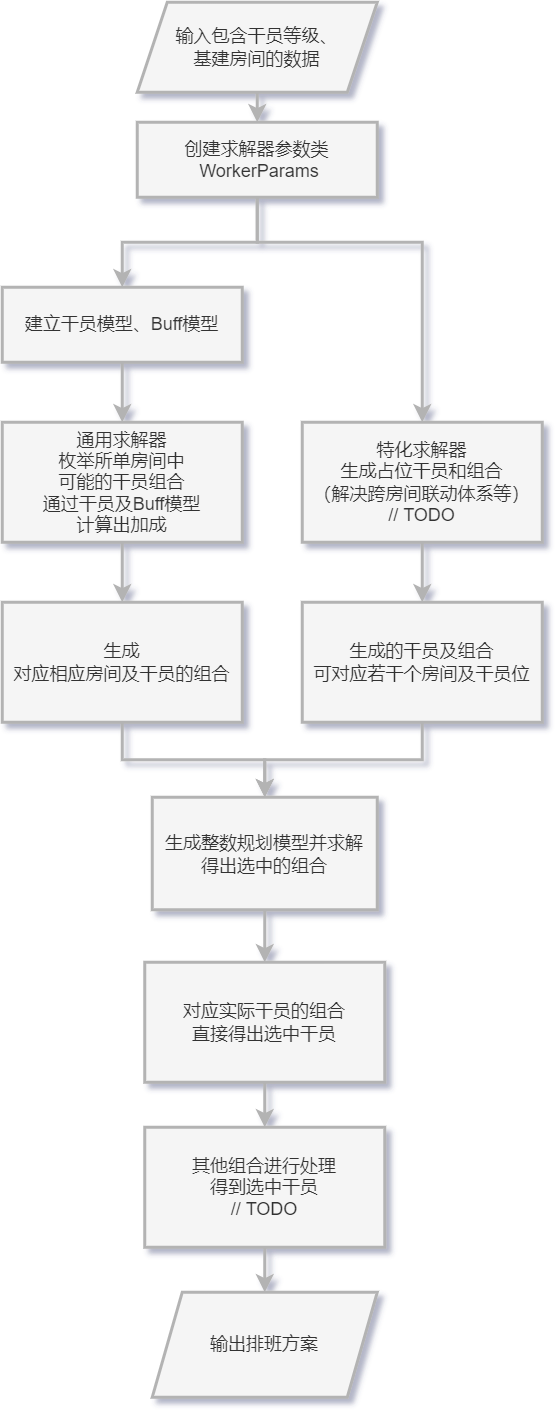
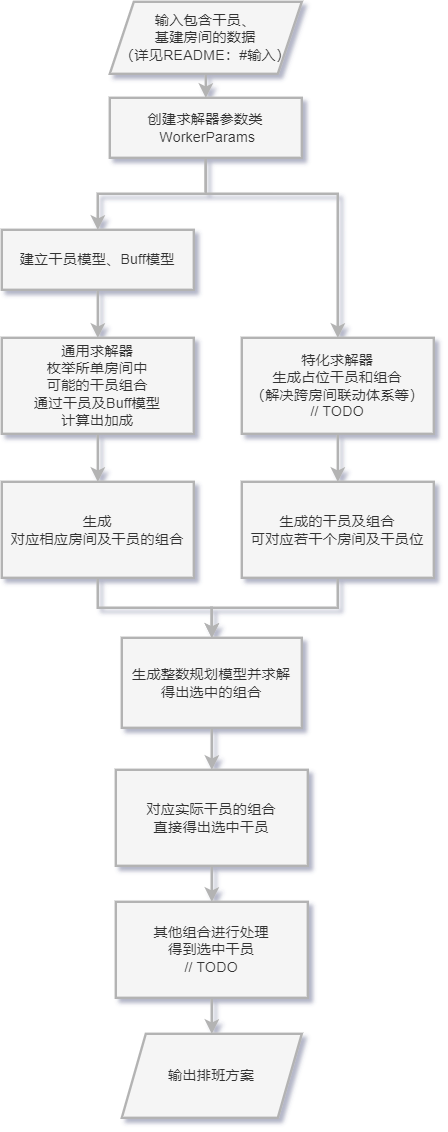
* README.md

diff --git a/README.md b/README.md
@@ -15,6 +15,35 @@
 
 ## 使用
 项目目前提供了支持 CMake 构建的 C++ 源码、 命令行程序（WIP）和可通过 C/C++ API 调用的库供集成。
+### 输入数据
+#### 静态数据
+计算前需要加载 `building_data.json` 文件，如果需要基于干员名称（不包括ID）来提供干员参数，
+则还需要加载 `character_table.json` 文件（用于获取干员中文名）。
+
+#### 单个房间需要提供的参数：
+1. 任意标识符，仅用于在输出中区分房间
+2. 房间类型
+3. 房间槽位数
+4. 订单/产品类型
+5. （可选）房间已有产品数量
+
+#### 单个干员需要提供的参数：
+干员可选择提供`干员名称/ID/任意标识符`、`精英阶段 + 等级`、`若干个技能的名称/ID`三种类型参数的有效组合。
+1. 指定`干员名称/ID + 精英阶段 + 等级`，将从游戏数据中解析出干员拥有的技能。若干员 Buff 未建模则不会参与计算。`干员ID/名称`无效时，不会参与计算。
+2. 指定`干员名称/ID + 若干个技能`，将尝试查询出`精英阶段 + 等级`，如找到则相当于选项1，未找到相当于选项3。
+3. 只指定`任意标识符 + 若干个技能`。将尝试查询出干员及等级，如找到则相当于选项1，未找到则也会使用指定的技能直接代入模型计算。某个`技能ID/名称`无效时，不会参与计算。
+
+#### 干员参数备注：
+* 干员名称/ID（如“德克萨斯” / `char_102_texas`）现在只用于模型中羁绊/联动体系的处理。非必须选项。
+* 查询操作相当于用`干员名称/ID + 若干技能`或`若干技能`查询出`干员`及其`精英阶段 + 等级`。
+
+### 输出数据
+房间的集合（不包括没有排班结果的房间），每个元素包含了房间中选中的干员、预计持续时长（从开始到第一位干员心情耗尽）
+和预计产能（可看作 `效率倍数 * 持续时长`）
+
+### 使用相关
+* 提供参数的细节可见 API 头文件及 API 用例。
+* 目前的参数组合可能还存在局限性，欢迎提出建议来改进。
 
 ## 模型
 [计算流程图](img/arkbuilding.png)
